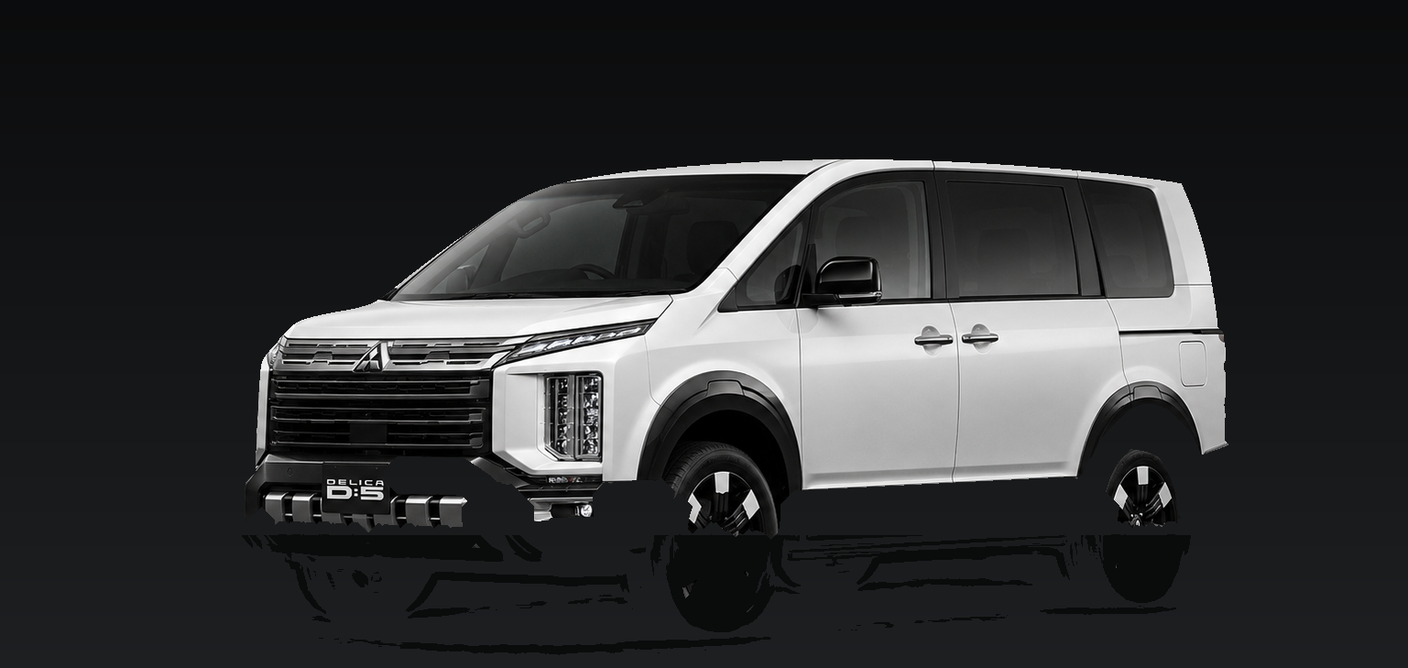
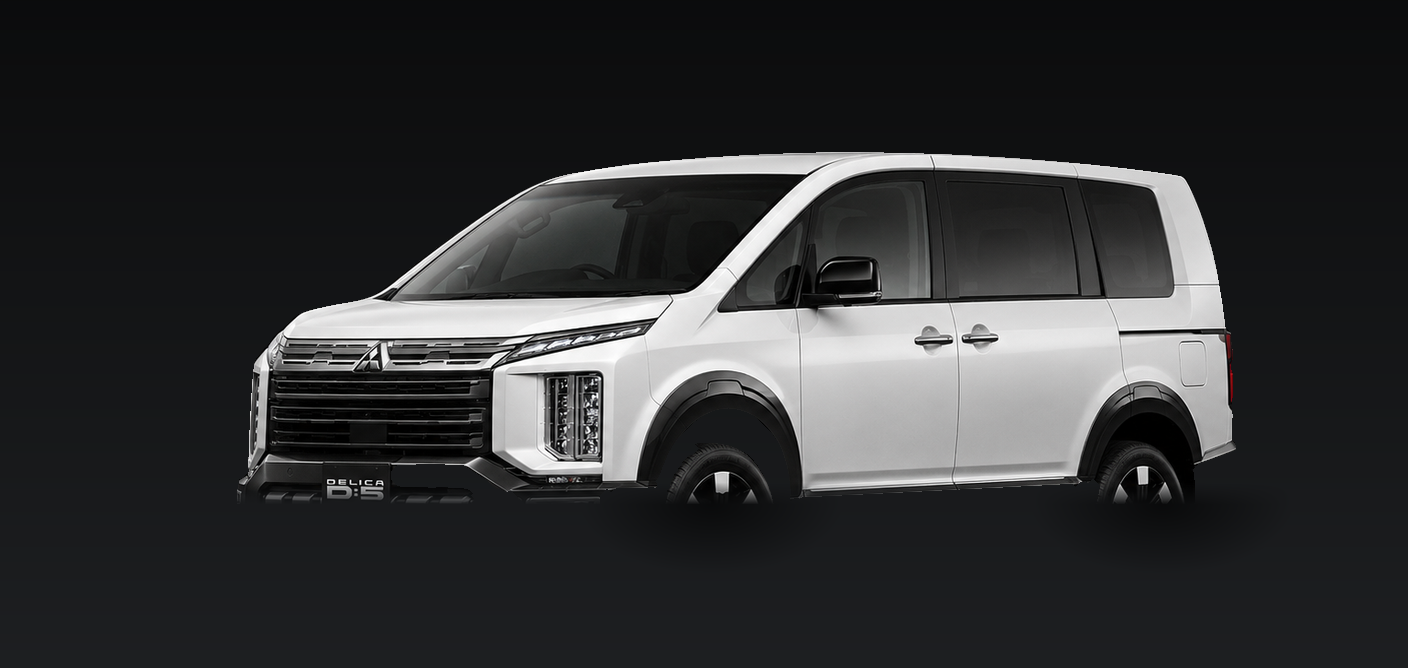
fix: rebuild Delica ground-contact zone as synthetic floor, not masked pixels
Three previous rounds of tuning a mask-based background-removal
approach (gradient-threshold flood fill + floor-crush override +
dilation) all left visible block/patch artifacts under the wheels, per
direct user review of the rendered page. Root cause: the mask is
genuinely noisy in that specific zone -- real floor-reflection texture
in the source photos defeats a clean gradient threshold, so filling a
noisy/jagged mask with flat color always produces blocky results no
matter how the thresholds are tuned.

Rewrote the approach entirely: below a fixed, conservative cutoff row
(verified by direct pixel probing to sit below every visible wheel/
skid-garnish highlight), all original pixel data in gen1/gen2 is
discarded and replaced with a fully synthetic ground plane -- a smooth
vertical gradient plus soft elliptical ground-contact shadows under
each wheel, feathered into the real photo above so there's no seam.
Verified via 3x zoomed crops of both wheel areas before committing:
clean tire-to-shadow transition, no blocking, no residual noise.

Timeline, Detail, and Compare all read from these same two files, so
all three surfaces are fixed together. Vehicle shape/color/lighting
untouched -- only the ground-contact zone was rebuilt. Documented as a
reusable pattern in the data file's own comment for any future vehicle
whose real-photo floor can't be cleanly salvaged pixel-by-pixel.

diff --git a/src/cars/delica-d5.js b/src/cars/delica-d5.js
@@ -15,12 +15,30 @@
 // terminology this vehicle's own press and owner community already use,
 // e.g. "デリカD:5(前期型)を買うなら") rather than "初代"/"2代目", which
 // would misrepresent a single continuously-produced model as two full
-// generations. See faq[0] below, which states this directly for readers
-// who arrive expecting a normal generation history.
+// generations.
 //
 // Sourced facts cross-checked against Mitsubishi Motors' own newsroom/
 // spec pages plus independent catalog sources (nextage.jp, spectank.jp) --
 // no invented specs.
+//
+// gen1/gen2 images: the supplied source photos have white studio
+// backgrounds and real floor-reflection texture near the tires. Three
+// rounds of mask-based background removal (gradient-threshold flood
+// fill + "floor crush" override + dilation, tuned three different ways)
+// all left visible artifacts under the wheels -- the mask itself is
+// unavoidably noisy in that zone (real reflection texture defeats a
+// clean gradient threshold), so filling a noisy mask with flat color
+// always produced blocky/patchy results regardless of tuning. Fixed
+// (2026-08-01) by abandoning per-pixel classification for that zone
+// entirely: below a fixed, conservative cutoff row (chosen below every
+// visible wheel/skid-garnish highlight, verified by direct pixel
+// probing), all original pixel data is discarded and replaced with a
+// fully synthetic ground plane -- a smooth vertical gradient plus soft
+// elliptical contact shadows under each wheel, feathered into the real
+// photo above so there's no seam. This is the reusable pattern for any
+// future vehicle whose real-photo floor/reflection can't be cleanly
+// salvaged: reconstruct the ground plane, don't try to patch it pixel
+// by pixel.
 const generations = [
   {
     numeral: 'I',
